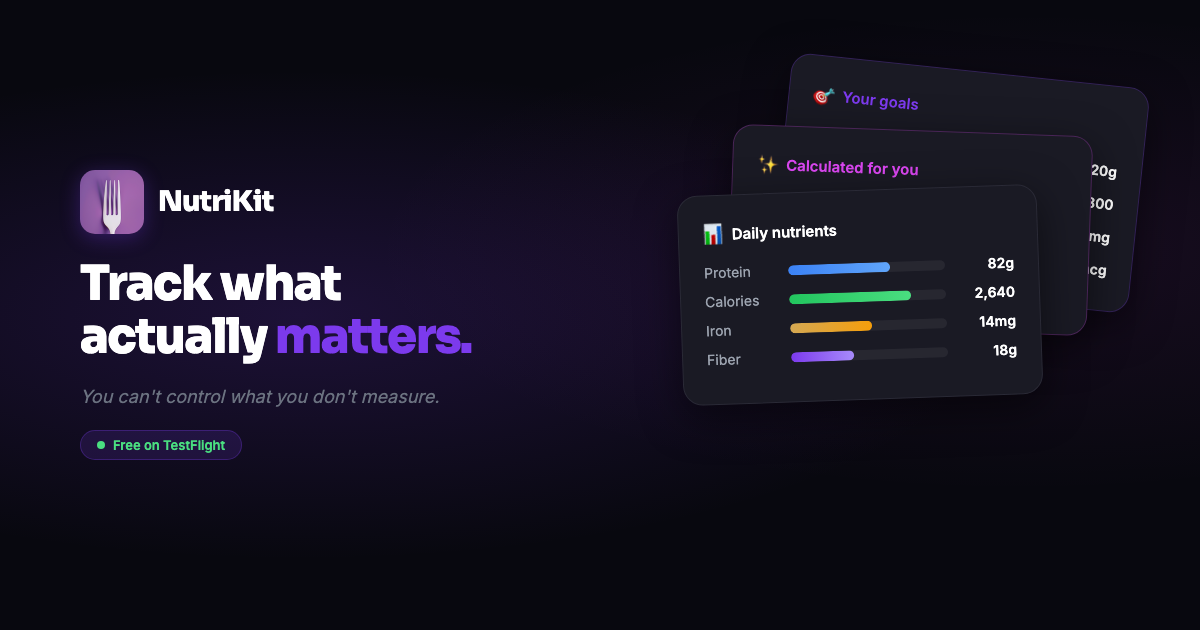
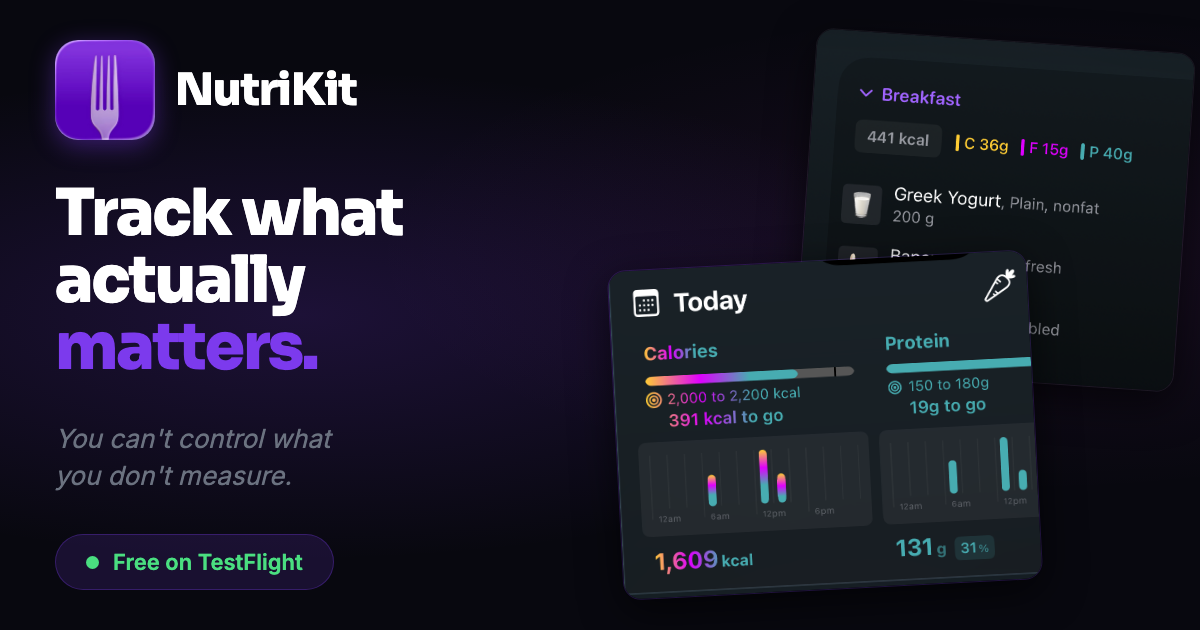
Update OG image with dark screenshots, bigger text layout
- Dark mode app screenshots (nutrients + meal log) as fanned cards
- Larger icon, title, tagline and TestFlight badge
- Use bullet separator in title instead of em dash
- Description B with tagline and key differentiators

diff --git a/src/app/layout.tsx b/src/app/layout.tsx
@@ -2,11 +2,11 @@ import type { Metadata } from "next";
 import "./globals.css";
 
 export const metadata: Metadata = {
-  title: "NutriKit — Track what actually matters",
+  title: "NutriKit · Track what actually matters",
   description:
     "You can't control what you don't measure. Track calories, macros, and 20+ micronutrients with science-backed targets built for your body.",
   openGraph: {
-    title: "NutriKit — Track what actually matters",
+    title: "NutriKit · Track what actually matters",
     description:
       "You can't control what you don't measure. Track calories, macros, and 20+ micronutrients with science-backed targets built for your body.",
     images: [{ url: "/og-image.png", width: 1200, height: 630 }],
@@ -14,7 +14,7 @@ export const metadata: Metadata = {
   },
   twitter: {
     card: "summary_large_image",
-    title: "NutriKit — Track what actually matters",
+    title: "NutriKit · Track what actually matters",
     description:
       "You can't control what you don't measure. Track calories, macros, and 20+ micronutrients with science-backed targets built for your body.",
     images: ["/og-image.png"],
